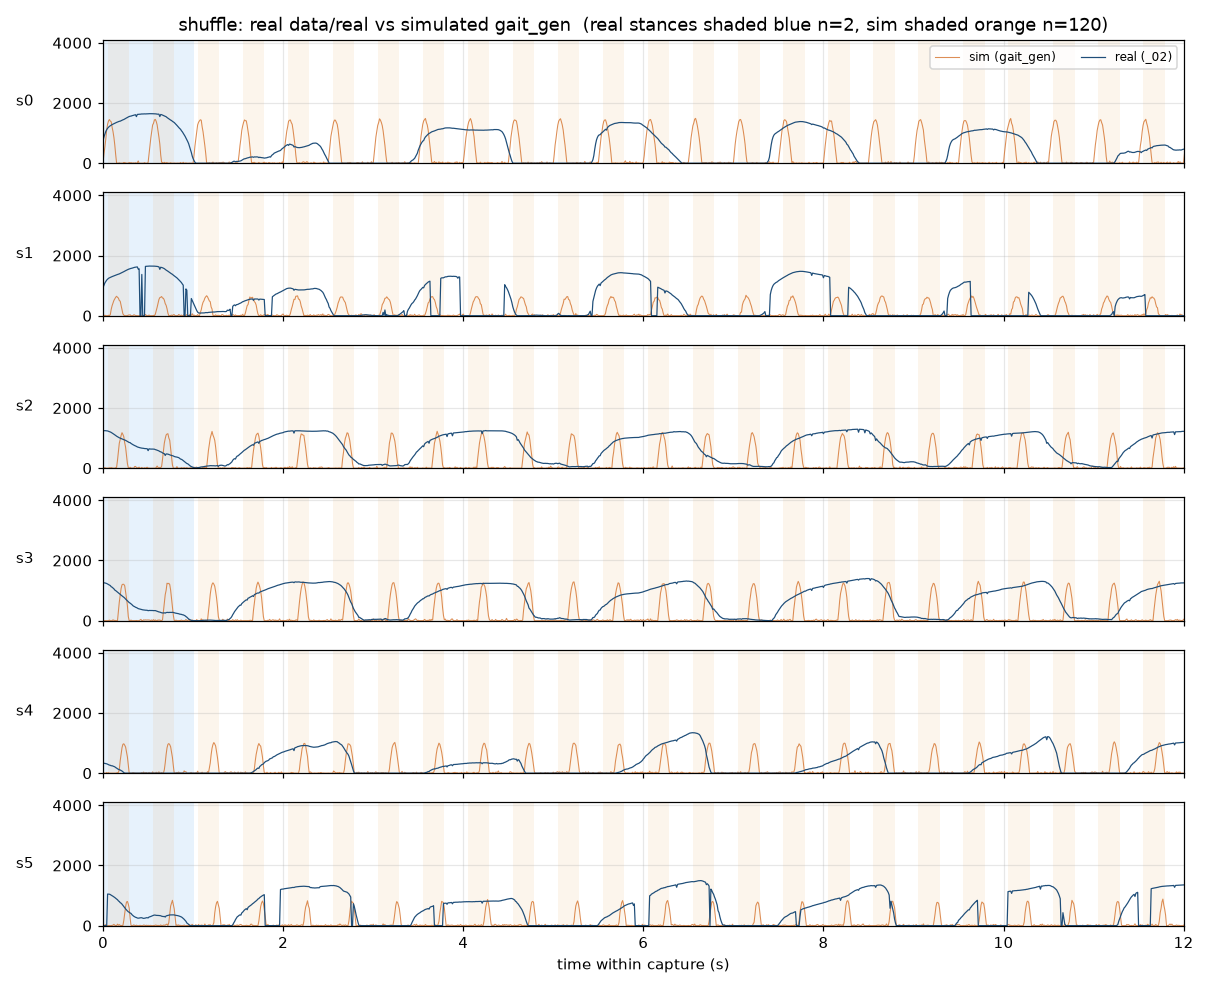
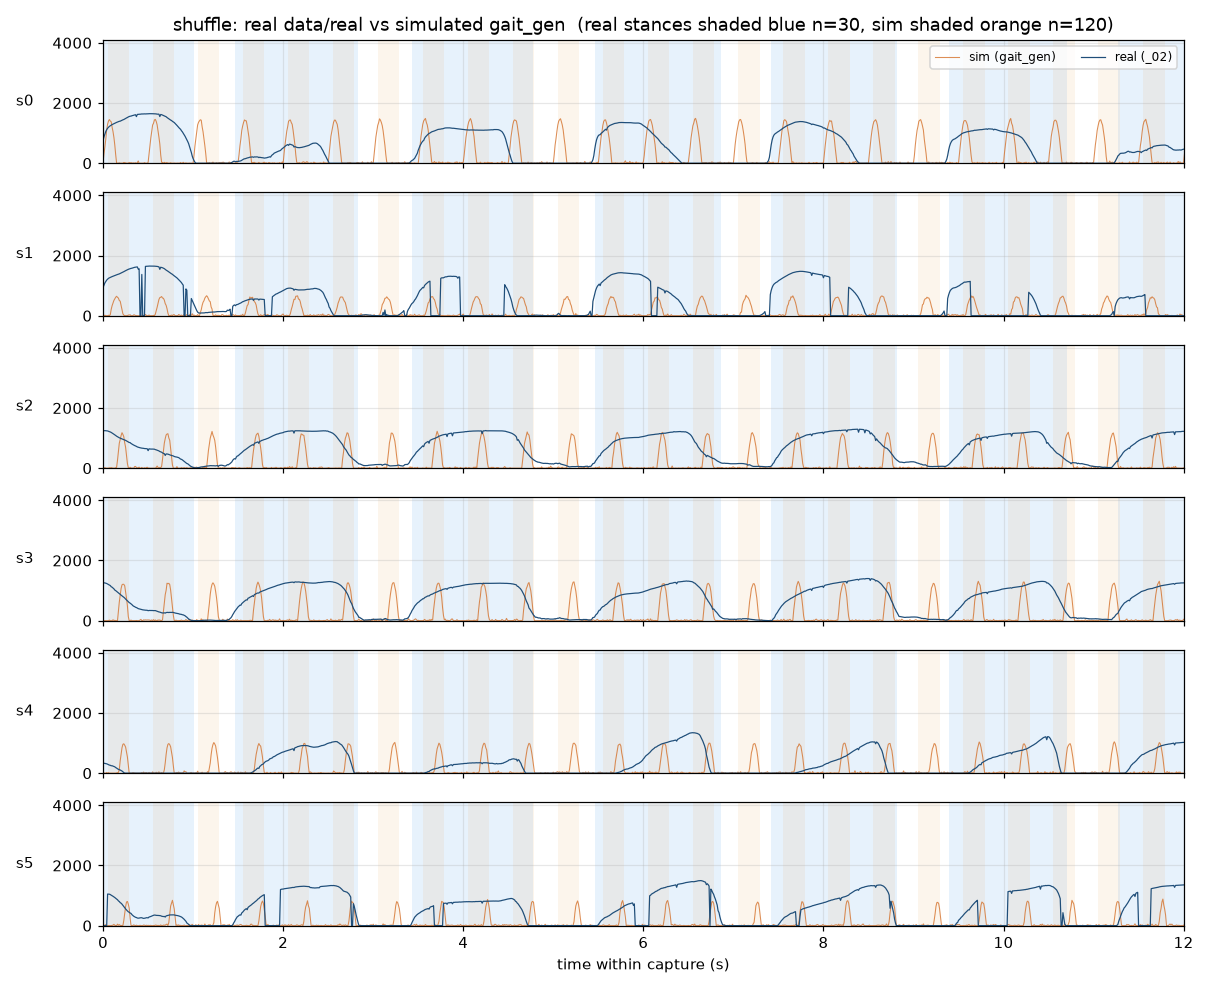
detector: raise MAX_DURATION to 200 from the real _02 captures
At 120 the ceiling sat one frame above walk's median natural contact (119) and below almost every shuffle contact (median 141, max 164), so find_stances discarded 17/35 walk and 28/30 shuffle contacts outright. sweep_max_duration.py shows every value from 165 to 1000 keeps all of them and still rejects the 6000-frame standing run; 200 is 2.0 s, 22% above the longest observed contact.

No sim stance exceeds 60 frames, so test_stances.py cannot see this change (15/15 before and after) and features_sessions.csv regenerates byte-identical. Real detections go walk 18 -> 35, shuffle 2 -> 30; the sim_vs_real figures are regenerated.

Changed region(s): [[0.1529, 0.0, 0.9174, 0.0303]]

diff --git a/sweep_max_duration.py b/sweep_max_duration.py
@@ -1,0 +1,99 @@
+"""The MAX_DURATION sweep behind the 120 -> 200 retune.
+
+    python sweep_max_duration.py
+
+Prints, for each candidate ceiling, how many stances find_stances + merge_close
+keeps on the four real _02 captures and on the five sim fixtures, plus the
+natural (T_ON/T_OFF only) run-length distribution of each real capture. Reads
+data/real/ and the sim CSVs; writes nothing.
+
+The sim columns exist to show what the sim tests CAN'T see: no simulated stance
+exceeds 60 frames, so every candidate from 120 to 1000 leaves the sim counts
+untouched. The change rests on the real data alone.
+"""
+
+import os
+import sys
+
+import numpy as np
+import pandas as pd
+
+import detector as D
+from gait_gen import SHUFFLE_CYCLE_S, true_stances
+
+REPO = os.path.dirname(os.path.abspath(__file__))
+REAL = {"stand": "stand_02.csv", "walk": "walk02.csv",
+        "fast": "fast02.csv", "shuffle": "shuffle02.csv"}
+SIM = [("sim_walk", "walk", 1.0), ("sim_fast", "walk", 0.6),
+       ("sim_shuffle", "shuffle", SHUFFLE_CYCLE_S),
+       ("sim_dropout", "walk", 1.0), ("sim_stand", "standing", 1.0)]
+CANDIDATES = [120, 150, 165, 180, 200, 250, 300, 500, 1000]
+
+
+def total_of(path):
+    df = pd.read_csv(path)
+    return df[D.SENSOR_COLS].sum(axis=1).to_numpy(dtype=float)
+
+
+def runs_unbounded(total):
+    runs, in_run, start = [], False, 0
+    for i, x in enumerate(total):
+        if in_run:
+            if x < D.T_OFF:
+                runs.append((start, i - 1))
+                in_run = False
+        elif x >= D.T_ON:
+            start, in_run = i, True
+    if in_run:
+        runs.append((start, len(total) - 1))
+    return runs
+
+
+def main():
+    print(f"T_ON={D.T_ON} T_OFF={D.T_OFF} MIN_DURATION={D.MIN_DURATION} "
+          f"GAP_MERGE={D.GAP_MERGE}; detector.MAX_DURATION is currently {D.MAX_DURATION}")
+    print()
+    print("natural run lengths (T_ON/T_OFF hysteresis only), real _02 captures:")
+    print(f"{'activity':9s} {'runs':>5s} {'min':>5s} {'p50':>7s} {'p90':>7s} {'max':>5s}")
+    real = {}
+    for name, f in REAL.items():
+        total = total_of(os.path.join(REPO, "data", "real", f))
+        real[name] = total
+        L = np.array([e - s + 1 for s, e in runs_unbounded(total)])
+        print(f"{name:9s} {len(L):5d} {L.min():5d} {np.median(L):7.1f} "
+              f"{np.percentile(L, 90):7.1f} {L.max():5d}")
+
+    sims = {}
+    for stem, mode, cyc in SIM:
+        path = os.path.join(REPO, stem + ".csv")
+        if not os.path.exists(path):
+            raise SystemExit(f"missing {path} -- run: python read_serial.py {stem}.txt {stem}.csv")
+        sims[stem] = (total_of(path), len(true_stances(60, mode=mode, cycle_s=cyc)))
+    print()
+    print("longest raw stance in each sim fixture (no ceiling):")
+    for stem, (total, _) in sims.items():
+        st = D.find_stances(total, max_duration=10 ** 9)
+        print(f"  {stem:12s} {max(e - s + 1 for s, e in st) if st else 0}")
+
+    print()
+    print("stances kept by find_stances + merge_close per candidate MAX_DURATION:")
+    print(f"{'max':>5s} " + " ".join(f"{n:>8s}" for n in REAL) + " | "
+          + " ".join(f"{s[0]:>12s}" for s in SIM) + "  sim_ok")
+    for m in CANDIDATES:
+        row = [len(D.merge_close(D.find_stances(t, max_duration=m))) for t in real.values()]
+        sim_cells, ok = [], True
+        for stem, (total, want) in sims.items():
+            got = len(D.merge_close(D.find_stances(total, max_duration=m)))
+            sim_cells.append(f"{got}/{want}")
+            ok &= got == want
+        print(f"{m:5d} " + " ".join(f"{v:8d}" for v in row) + " | "
+              + " ".join(f"{c:>12s}" for c in sim_cells) + f"  {ok}")
+    print()
+    print("sim_ok = every fixture still matches gait_gen.true_stances. The real")
+    print("columns saturate at 165: every walk and shuffle contact is kept from")
+    print("there up, and standing (one 6000-frame run) is rejected until ~6000.")
+    return 0
+
+
+if __name__ == "__main__":
+    sys.exit(main())

diff --git a/detector.py b/detector.py
@@ -89,6 +89,9 @@ SENSOR_COORDS = {
 #   dropout     62 fr       7623..7812          0..1147              219
 #   standing     -          6381..6824             (never falls)       -
 #
+# MAX_DURATION is the exception: it was re-set from REAL data in Prompt 14.
+# See its comment below.
+#
 T_ON         = 1200   # RETUNE: entry threshold, total force across six channels.
                       # Must clear the 285 between-stance noise peak but sit well
                       # under the shuffle stance peak (~3400). At 2000 the shuffle
@@ -101,8 +104,20 @@ MIN_DURATION =   15   # RETUNE: frames; must be BELOW the shortest stance you in
                       # to support. Shortest detected stance is the shuffle at 25
                       # frames. Still rejects the single-frame noise spike, which
                       # is what this guard was actually for.
-MAX_DURATION =  120   # RETUNE: frames; must be ABOVE the longest real stance
-                      # (58 detected) and below "standing" (unbounded).
+MAX_DURATION =  200   # RETUNE: frames; must be ABOVE the longest real stance
+                      # and below "standing" (unbounded). Was 120, set from the
+                      # longest SIMULATED stance (58 frames). The real _02
+                      # captures (data/real/, analyze_real.py C5) showed natural
+                      # contacts of 84..144 frames walking and 96..164 shuffling,
+                      # so 120 discarded 17/35 walk and 28/30 shuffle contacts
+                      # outright. 200 = 2.0 s at 100 Hz: 22% above the longest
+                      # observed contact (164) and 30x below the one thing it
+                      # exists to reject, the 6000-frame standing run. Every
+                      # value from 165 to 1000 gives identical counts on all
+                      # four real captures and all five sim fixtures; 200 is
+                      # the round one. No sim stance exceeds 60 frames, so the
+                      # sim tests cannot see this change -- it rests on four
+                      # minutes of real data from one subject.
 GAP_MERGE    =   12   # RETUNE: frames; two detections closer than this are one
                       # stance. Tightest true separation is the shuffle at 19
                       # frames of truth / ~24 frames as detected, so this must
@@ -234,3 +249,4 @@ def stance_report(detected, truth):
         "mean_end_offset": sum(end_offsets) / n,
         "mean_duration_error": sum(duration_errors) / n,
     }
+
